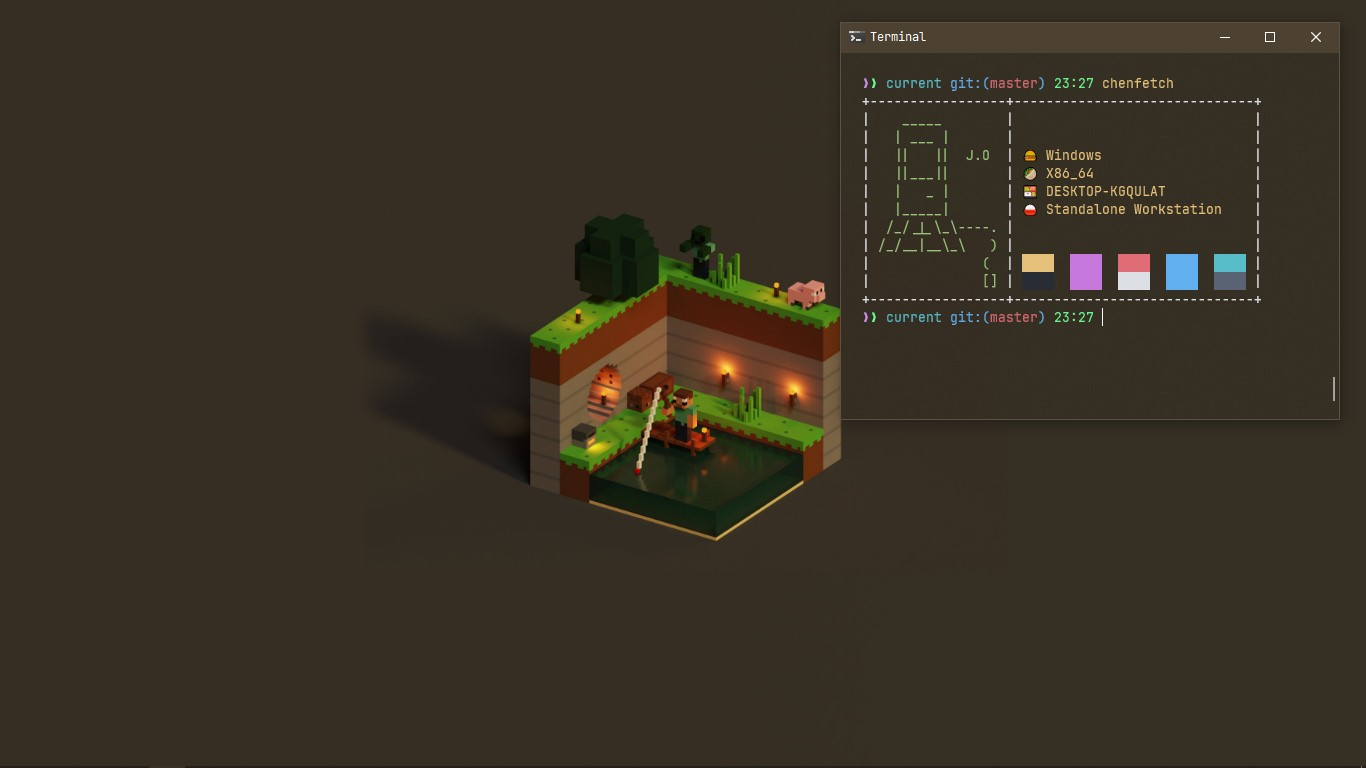
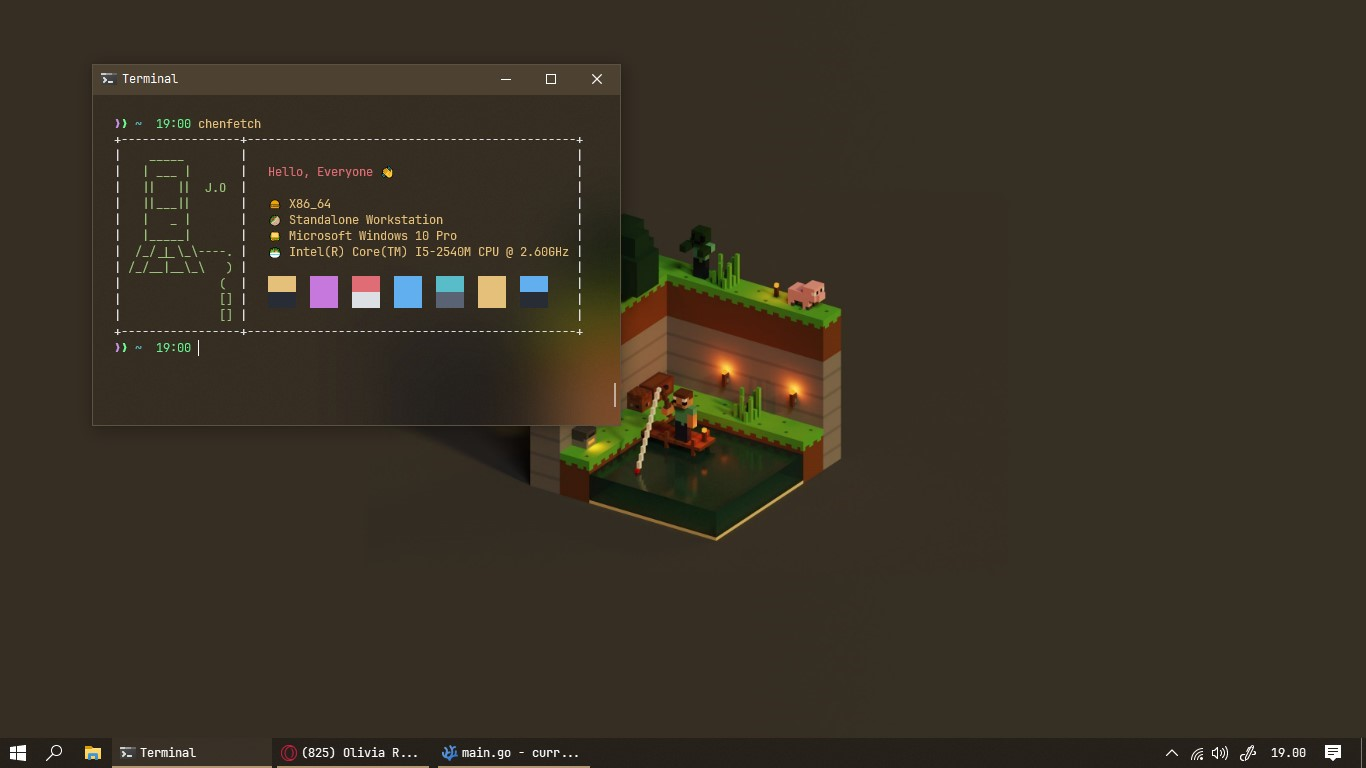
chore: update for all

diff --git a/main.go b/main.go
@@ -6,15 +6,16 @@ import (
 
 	"github.com/gilliek/go-xterm256/xterm256"
 	"github.com/jedib0t/go-pretty/v6/table"
-	_ "github.com/shirou/gopsutil/v3/cpu"
+	"github.com/shirou/gopsutil/v3/cpu"
 	"github.com/shirou/gopsutil/v3/host"
 )
 
 func main() {
 	var s []string
 	var sA []string
-	s = append(s, ""+xterm256.Sprintf(xterm256.DarkYellow, "████")+"  "+xterm256.Sprintf(xterm256.DarkMagenta, "████")+"  "+xterm256.Sprintf(xterm256.Red, "████")+"  "+xterm256.Sprintf(xterm256.DarkBlue, "████")+"  "+xterm256.Sprintf(xterm256.DarkCyan, "████"))
-	sA = append(sA, ""+xterm256.Sprintf(xterm256.Black, "████")+"  "+xterm256.Sprintf(xterm256.Magenta, "████")+"  "+xterm256.Sprintf(xterm256.LightGray, "████")+"  "+xterm256.Sprintf(xterm256.Blue, "████")+"  "+xterm256.Sprintf(xterm256.DarkGray, "████"))
+	s = append(s, "  "+xterm256.Sprintf(xterm256.DarkYellow, "████")+"  "+xterm256.Sprintf(xterm256.DarkMagenta, "████")+"  "+xterm256.Sprintf(xterm256.Red, "████")+"  "+xterm256.Sprintf(xterm256.DarkBlue, "████")+"  "+xterm256.Sprintf(xterm256.DarkCyan, "████")+"  "+xterm256.Sprintf(xterm256.Yellow, "████")+"  "+xterm256.Sprintf(xterm256.Blue, "████"))
+	sA = append(sA, "  "+xterm256.Sprintf(xterm256.Black, "████")+"  "+xterm256.Sprintf(xterm256.Magenta, "████")+"  "+xterm256.Sprintf(xterm256.LightGray, "████")+"  "+xterm256.Sprintf(xterm256.Blue, "████")+"  "+xterm256.Sprintf(xterm256.DarkGray, "████")+"  "+xterm256.Sprintf(xterm256.Yellow, "████")+"  "+xterm256.Sprintf(xterm256.Black, "████"))
+
 
 	var block string
 	for _, blk := range s {
@@ -26,23 +27,34 @@ func main() {
 		block2 = blks
 	}
 
+	var cpuName string
+	cpus, _ := cpu.Info()
+	for _, cp := range cpus {
+		cpuName = cp.ModelName
+	}
+	
 	data, _ := host.Info()
-	infoOS := "🍔 " + xterm256.Sprintf(xterm256.Yellow, strings.Title(data.OS))
-	infoKernel := "🥙 " + xterm256.Sprintf(xterm256.Yellow, strings.Title(data.KernelArch))
-	infoHostname := "🍱 " + xterm256.Sprintf(xterm256.Yellow, strings.Title(data.Hostname))
-	infoPlatform := "🍚 " + xterm256.Sprintf(xterm256.Yellow, strings.Title(data.PlatformFamily))
+	Host := "  "+xterm256.Sprintf(xterm256.Red, "Hello, Everyone 👋")
+
+	infoOS := "  " +"🍔 " + xterm256.Sprintf(xterm256.Yellow, strings.Title(data.KernelArch))
+	infoKernel := "  " +"🥙 " + xterm256.Sprintf(xterm256.Yellow, strings.Title(data.PlatformFamily))
+	infoPlatform := "  " + "🥪 " + xterm256.Sprintf(xterm256.Yellow, strings.Title(data.Platform))
+	infoCPU := "  " + "🥗 " + xterm256.Sprintf(xterm256.Yellow, strings.Title(cpuName))
 
 	t := table.NewWriter()
 	t.AppendRow(table.Row{xterm256.Sprintf(xterm256.DarkGreen, "   _____")})
-	t.AppendRow(table.Row{xterm256.Sprintf(xterm256.DarkGreen, "  | ___ |")})
-	t.AppendRow(table.Row{xterm256.Sprintf(xterm256.DarkGreen, "  ||   ||  J.O"), infoOS})
-	t.AppendRow(table.Row{xterm256.Sprintf(xterm256.DarkGreen, "  ||___||"), infoKernel})
-	t.AppendRow(table.Row{xterm256.Sprintf(xterm256.DarkGreen, "  |   _ |"), infoHostname})
+	t.AppendRow(table.Row{xterm256.Sprintf(xterm256.DarkGreen, "  | ___ |"), Host})
+	t.AppendRow(table.Row{xterm256.Sprintf(xterm256.DarkGreen, "  ||   ||  J.O")})
+	t.AppendRow(table.Row{xterm256.Sprintf(xterm256.DarkGreen, "  ||___||"), infoOS})
+	t.AppendRow(table.Row{xterm256.Sprintf(xterm256.DarkGreen, "  |   _ |"), infoKernel})
 	t.AppendRow(table.Row{xterm256.Sprintf(xterm256.DarkGreen, "  |_____|"), infoPlatform})
-	t.AppendRow(table.Row{xterm256.Sprintf(xterm256.DarkGreen, ` /_/_|_\_\----.`)})
+	t.AppendRow(table.Row{xterm256.Sprintf(xterm256.DarkGreen, ` /_/_|_\_\----.`), infoCPU})
 	t.AppendRow(table.Row{xterm256.Sprintf(xterm256.DarkGreen, `/_/__|__\_\   )`)})
 	t.AppendRow(table.Row{xterm256.Sprintf(xterm256.DarkGreen, `             (`), block})
 	t.AppendRow(table.Row{xterm256.Sprintf(xterm256.DarkGreen, `             []`), block2})
+	t.AppendRow(table.Row{xterm256.Sprintf(xterm256.DarkGreen, `             []`)})
+
 
 	fmt.Println(t.Render())
+
 }

diff --git a/README.md b/README.md
@@ -2,11 +2,23 @@
 This is a screenfetch that I made myself, yes I made it with Golang, because I only know Golang :u
 
 ## Usage
-To usage you can run `chenfetch`
-```
-chenfetch
-```
-If you have scoop you can copy file `chenfetch.exe` into folder `shims` in scoop folder
+- Windows
+    To usage you can run `chenfetch`
+    ```
+    chenfetch
+    ```
+    If you have scoop you can copy file `bin/chenfetch.exe` into folder `shims` in scoop folder
+
+- Linux
+    Copy file `bin/chenfetch` to `/usr/local/bin`
+    ```
+    cp bin/chenfetch /usr/local/bin/
+
+    ```
+    To usage you can run `chenfetch`
+    ```
+    chenfetch
+    ```
 
 ## Screenshot
 ![screenshot1](.github/1.jpg)
